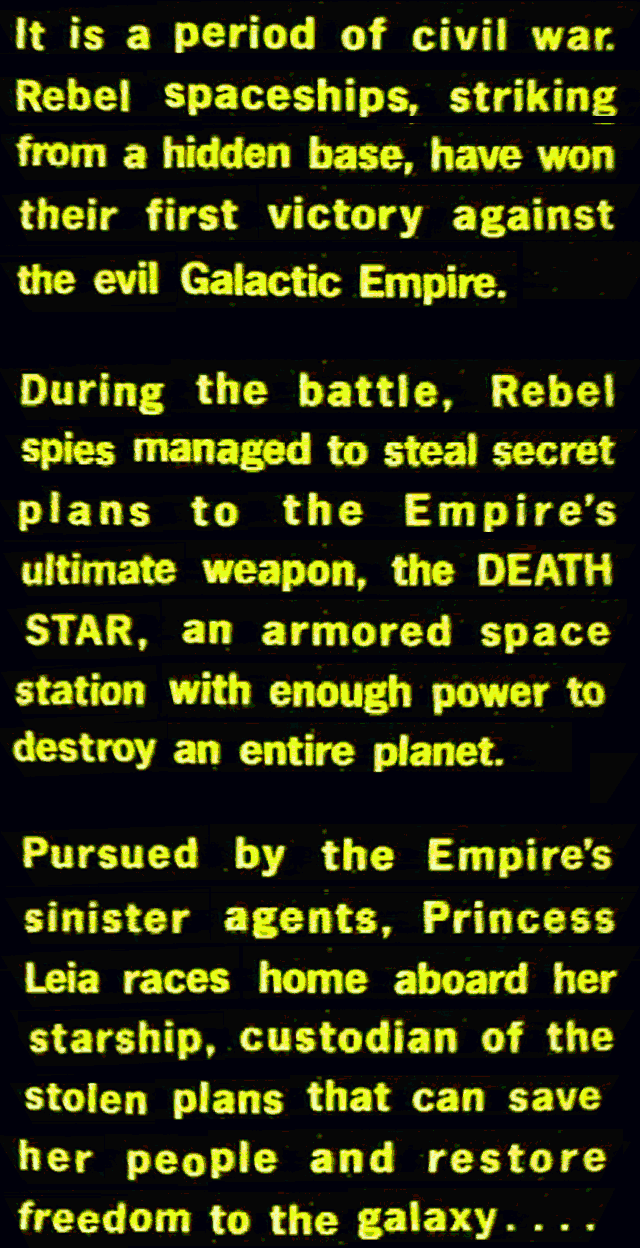
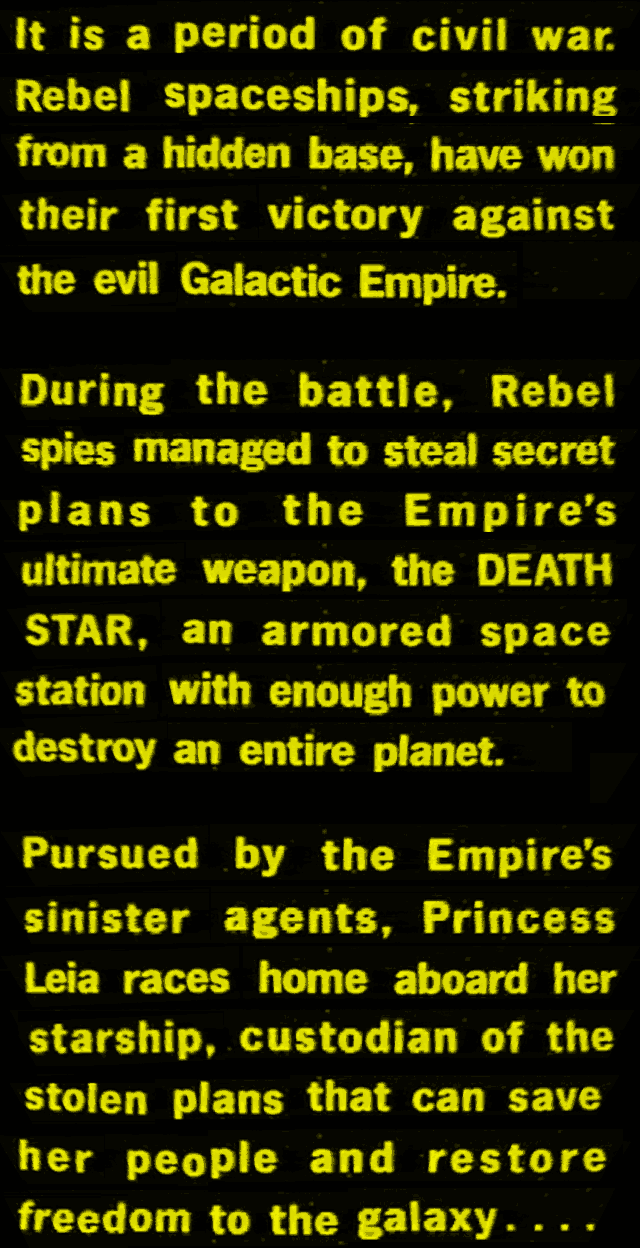
Tweaked docking scene and added fade to black at end. Made the intro crawl text a little less ugly.

diff --git a/source/d3d11game_win32/Game.cpp b/source/d3d11game_win32/Game.cpp
@@ -66,8 +66,8 @@ void Game::Update(DX::StepTimer const& timer)
 	float crawlAngle = 28.f; // angle of intro crawl text
 
 	// Scene timings
-	float t_open = 10.f;
-	float t_panStart = t_open + 79.f; // What time does the credit pan-down start. Should be around 89 for accuracy, plus bluetext time
+	float t_open = 10.f; // Should be 10
+	float t_panStart = t_open + 79.f; // What time does the credit pan-down start. Should be around 79 for accuracy, plus bluetext time
 	float t_panEnd = t_panStart + 10.f; // What time does the pan end
 	float t_scene2 = t_panEnd + 20.f; // Scene for the head-on view of the chase
 	float t_scene3 = t_scene2 + 12.f; // Scene for the closeup hits on the blackade runner
@@ -135,6 +135,7 @@ void Game::Update(DX::StepTimer const& timer)
 	else if (timer.GetTotalSeconds() < t_panStart)
 	{
 		drawPrelude = false;
+		drawTitle = true;
 		m_view = Matrix::CreateTranslation(Vector3::Down * 0.f) * Matrix::CreateRotationX(degreeToRads(introPitch));
 
 		Vector3 v_crawlangle = Vector3::Transform(Vector3::Up, Matrix::CreateRotationX(degreeToRads(crawlAngle)));
@@ -146,6 +147,7 @@ void Game::Update(DX::StepTimer const& timer)
 	}
 	else if (timer.GetTotalSeconds() < t_panEnd)
 	{
+		drawTitle = false;
 		float deltaT = t_panStart - timer.GetTotalSeconds(); // I think this is actually calculating everything inverted but everything is working properly with this value so I'm gonna ignore it
 		
 		m_view = Matrix::CreateTranslation(Vector3::Down * 0.f) * Matrix::CreateRotationX(degreeToRads(clamp(introPitch - deltaT * 8.f, introPitch, 0)));
@@ -200,10 +202,17 @@ void Game::Update(DX::StepTimer const& timer)
 		m_sky_world = Matrix::CreateRotationY(degreeToRads((timer.GetTotalSeconds() - t_scene2) * -0.8f));
 		m_view = Matrix::CreateLookAt(Vector3(-0.5f, -1.0f, -2.f), Vector3::Zero, Vector3::UnitY);
 		m_runner_world = Matrix::CreateTranslation(Vector3::Backward * (timer.GetTotalSeconds() - t_dock) * 0.016f);
-		m_stard_world = Matrix::CreateTranslation(Vector3(0.f, 1.f, 3.f));
+		m_stard_world = Matrix::CreateTranslation(Vector3::Lerp(Vector3(0.f, 1.f, 3.f), Vector3(0,0,0), log((timer.GetTotalSeconds() - t_dock) / 5.f + 1.0f)));
 	}
 	else
-		ExitGame();
+	{
+		fadeOutTime = t_end;
+
+		if (faded)
+			ExitGame();
+		else
+			fadeout = true;
+	}
 
 	// Pursuit logic
 	if (shipChasing)
@@ -273,8 +282,12 @@ void Game::Render()
 	// Draw models
 	m_stard->Draw(m_d3dContext.Get(), *m_states, m_stard_world, m_view, m_proj);
 	m_runner->Draw(m_d3dContext.Get(), *m_states, m_runner_world, m_view, m_proj);
-	m_title->Draw(m_d3dContext.Get(), *m_states, m_title_world, m_view, m_proj);
-	m_crawl->Draw(m_d3dContext.Get(), *m_states, m_crawl_world, m_view, m_proj);
+
+	if (drawTitle)
+	{
+		m_title->Draw(m_d3dContext.Get(), *m_states, m_title_world, m_view, m_proj);
+		m_crawl->Draw(m_d3dContext.Get(), *m_states, m_crawl_world, m_view, m_proj);
+	}
 	
 	for (int i = 0; i < o_blasters.size(); i++)
 		o_blasters[i]->model->Draw(m_d3dContext.Get(), *m_states, o_blasters[i]->m_world, m_view, m_proj);
@@ -289,6 +302,17 @@ void Game::Render()
 	// Draw debug text
 	m_spriteBatch->Begin();
 
+	// Ending fadeout
+	if (fadeout)
+	{
+		if (m_timer.GetTotalSeconds() - fadeOutTime > 1.f)
+			faded = true;
+
+		Color fadeTint = Color::Lerp(Color(0.f, 0.f, 0.f, 0.f), (Color)Colors::White, m_timer.GetTotalSeconds() - fadeOutTime);
+		m_spriteBatch->Draw(t_blackbg.Get(), m_fullscreenRect, fadeTint);
+	}
+
+	// Opening prelude rendering
 	if (drawPrelude)
 	{
 		// Draw the black background

diff --git a/source/d3d11game_win32/Game.h b/source/d3d11game_win32/Game.h
@@ -88,10 +88,14 @@ private:
 
 	// Runtime logic vars
 	bool drawPrelude = false;
+	bool drawTitle = false;
 	bool stardFrameShot = false;
 	bool runnerFrameShot = false;
 	bool runnerExploded = false;
 	bool disablingShot = false;
+	bool fadeout = false;
+	bool faded = false;
+	float fadeOutTime;
 
 	// Render pipeline stuff
 	Microsoft::WRL::ComPtr<ID3D11InputLayout> m_inputLayout;
